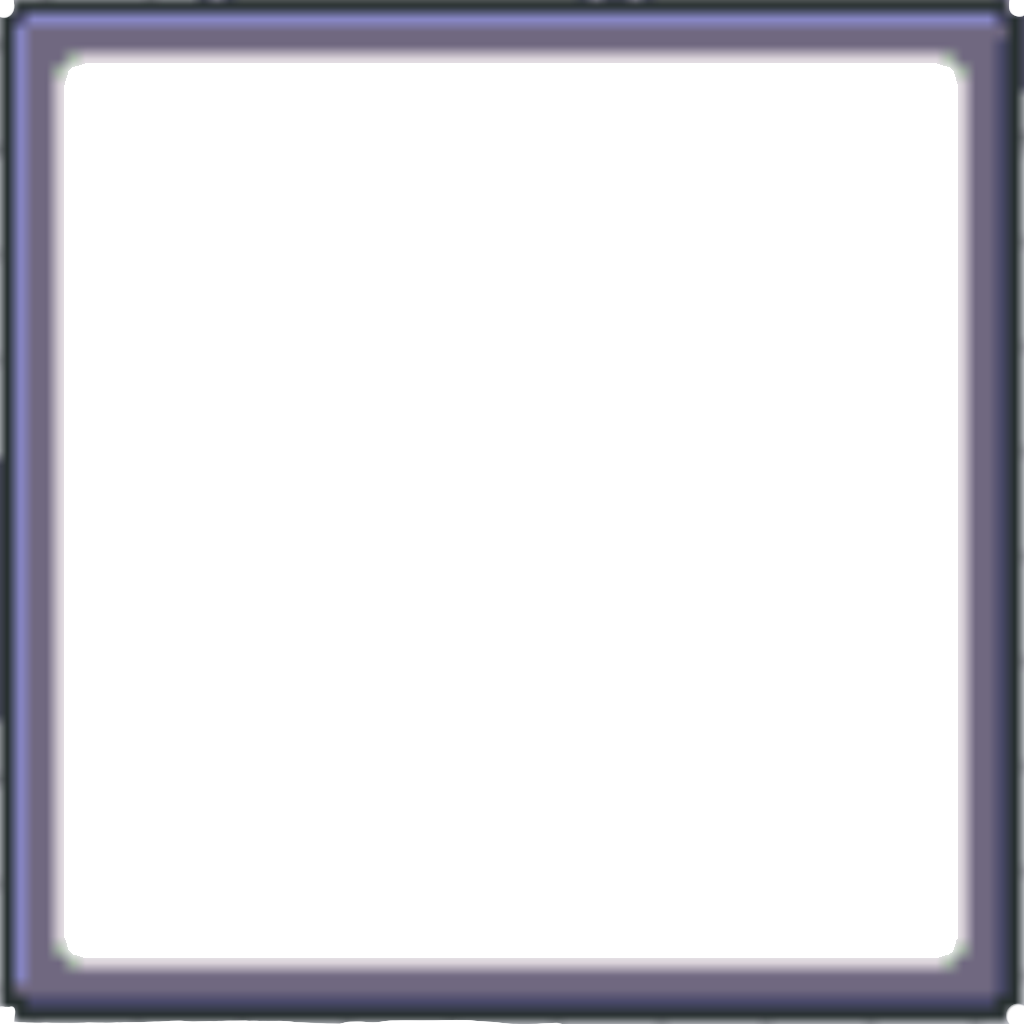
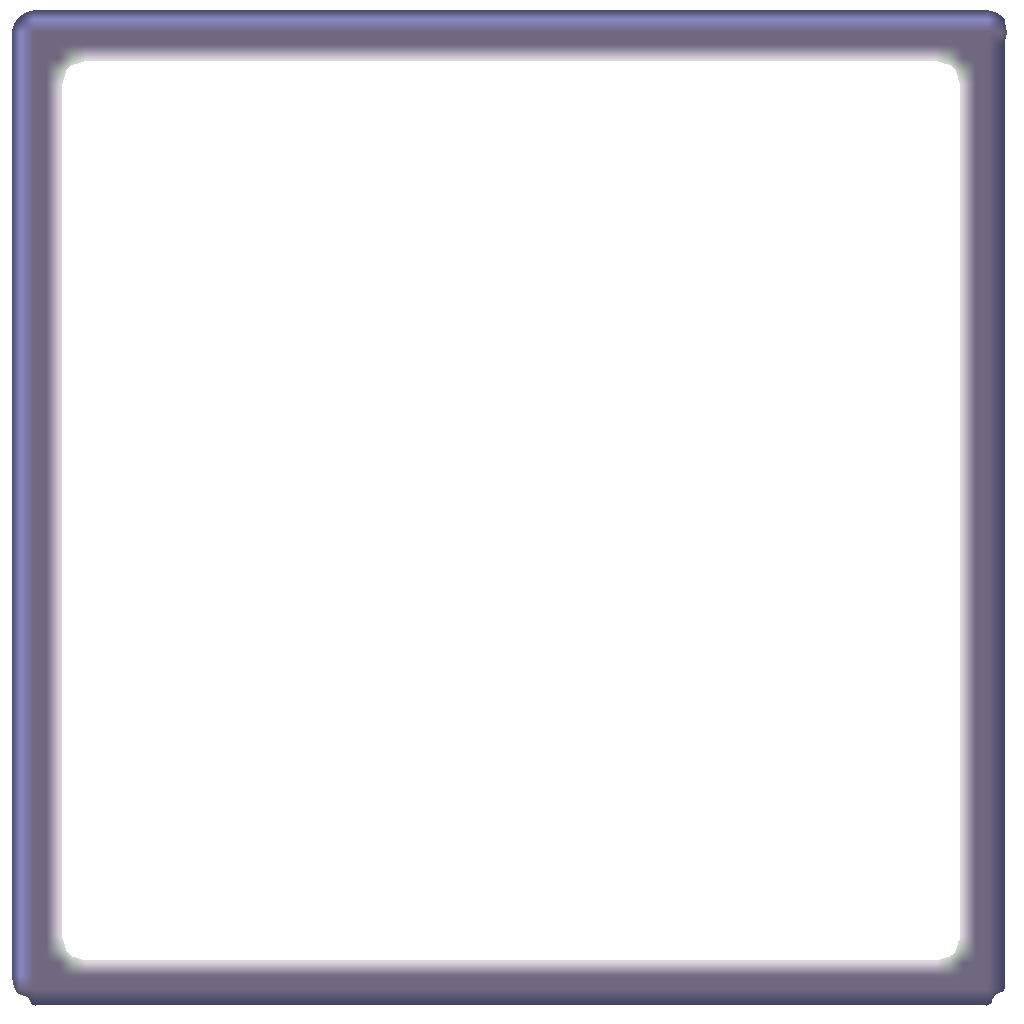
feat: add background and frames to start new game menu

Changed region(s): [[0.0, 0.0, 1.0, 1.0], [0.9062, 0.9062, 0.9375, 0.9375]]

diff --git a/game/views/in_game_views/game_menues_display.py b/game/views/in_game_views/game_menues_display.py
@@ -32,15 +32,7 @@ class Game_menues_display(Display):
         if not forced_switch and not team_full:
             options.append(self.dialogs['back'])
         return options
-
-    def draw_precombat_field(self):
-        pg.transform.scale(self.field,(self.screen_width, self.screen_height))
-        self.screen.blit(self.field,(0,0))
-        
-    def draw_combat_screen(self):
-        self.combat_field=pg.transform.scale(self.combat_field,(self.screen_width, self.screen_height))
-        self.screen.blit(self.combat_field,(0,0))
-
+    
     def load_graphics_combat(self):
         self.combat_field=pg.image.load(self.GRAPHICS_PATH+"/media/"+"battlefield combat.png")
         self.combat_field=pg.transform.scale(self.combat_field,(self.screen_width, self.screen_height))
@@ -52,17 +44,34 @@ class Game_menues_display(Display):
         self.pkmn_frame_img=pg.image.load(self.GRAPHICS_PATH+"/media/"+"pkmn frame.png")
         self.pkmn_frame_img=pg.transform.scale(self.pkmn_frame_img, (self.screen_width,self.screen_height))
 
-        self.team_select_img=pg.image.load(self.GRAPHICS_PATH+"/media/"+"pkmn frame.png")
-        self.team_select_img=pg.transform.scale(self.team_select_img, (self.screen_width,self.screen_height))
+
+        self.action_bg_img=pg.image.load(self.GRAPHICS_PATH+"/media/"+"pkmn choice bg.png")
+        self.action_bg_img=pg.transform.scale(self.action_bg_img,(self.screen_width,self.screen_height))
+    
+
+        #########↑load, system,etc.#######↓draw##
+
+    def draw_precombat_field(self):
+        pg.transform.scale(self.field,(self.screen_width, self.screen_height))
+        self.screen.blit(self.field,(0,0))
+        
+    def draw_combat_screen(self):
+        self.combat_field=pg.transform.scale(self.combat_field,(self.screen_width, self.screen_height))
+        self.screen.blit(self.combat_field,(0,0))
+
     
     def draw_launch_menu(self):
         self.launch_menu_img=pg.transform.scale(self.launch_menu_img, (self.screen_width,self.screen_height))
         self.screen.blit(self.launch_menu_img,(0,0))
     
-    def draw_pkmn_frame(self):
-        self.pkmn_frame_img=pg.transform.scale(self.pkmn_frame_img, (self.screen_width,self.screen_height))
-        self.screen.blit(self.pkmn_frame_img,(0,0))
+    def draw_pkmn_frame(self,x:int, y:int):
+        self.pkmn_frame_img=pg.transform.scale(self.pkmn_frame_img, (self.width*0.2, self.width*0.2))
+        self.screen.blit(self.pkmn_frame_img,(x,y))
     
     def draw_team_select_img(self):
         self.team_select_img=pg.transform.scale(self.team_select_img, (self.screen_width,self.screen_height))
         self.screen.blit(self.team_select_img,(0,0))
+        
+    def draw_action_background(self):
+        self.action_bg_img=pg.transform.scale(self.action_bg_img,(self.screen_width,self.screen_height))
+        self.screen.blit(self.action_bg_img,(0,0))

diff --git a/game/views/in_game_views/new_game_display.py b/game/views/in_game_views/new_game_display.py
@@ -10,6 +10,7 @@ class New_game_display(Game_menues_display):
         self.init_root_variables_new_game()
         self.init_menues_objects()
         self.init_pokemon_starters_mini()
+        self.load_graphics_launch_menues()
     
     def init_pokemon_starters_mini(self):
         self.pokemon_starters_image = []
@@ -44,4 +45,5 @@ class New_game_display(Game_menues_display):
     
     def draw_starter_pokemon(self):
         for index, image in enumerate(self.pokemon_starters_image):
+            self.draw_pkmn_frame(self.width*0.15+200 * index, self.height*0.3)
             self.screen.blit(image, (self.width*0.25 * index, self.height*0))

diff --git a/game/models/in_game_models/new_game.py b/game/models/in_game_models/new_game.py
@@ -62,7 +62,7 @@ class New_game(Models_controller, Game_menues_controller, New_game_controller, N
         """
             init all display related script
         """
-        self.screen.fill((0,100,0))
+        self.draw_action_background()
         match self.menu_state:
             case "player_input":
                 self.player_input.draw_input()
